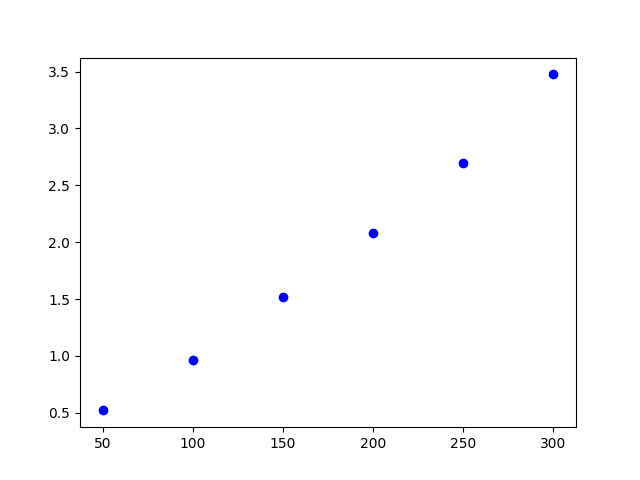
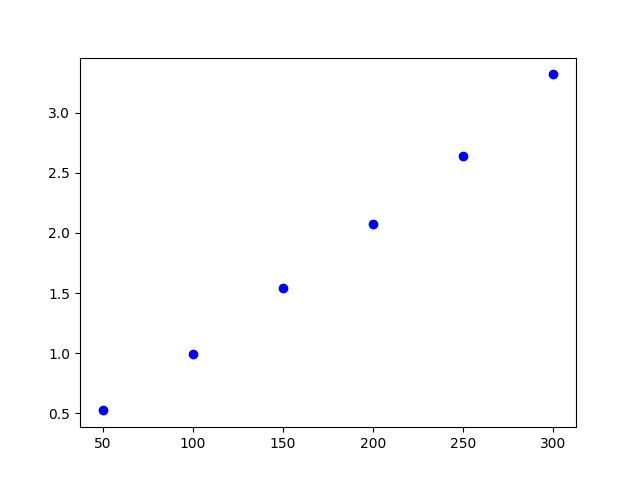
auto benchmark

diff --git a/2. Algorytmy Sortowania/benchmark.py b/2. Algorytmy Sortowania/benchmark.py
@@ -2,6 +2,8 @@ from typing import Callable, Dict
 from timeit import timeit
 from matplotlib import pyplot as plt
 
+import algorithms as alg
+
 default_benchmark_filename = "reference/lorem_ipsum.txt"
 
 
@@ -28,3 +30,17 @@ def plot_benchmark(benchmark: Dict[int, float], filename: str):
     plt.plot(list(benchmark.keys()), list(benchmark.values()), "bo")
     plt.savefig(filename)
     plt.close()
+
+
+if __name__ == "__main__":
+    plot_dir = "plots/"
+    number = 10
+    to_benchmark = {
+        "quicksort.png": alg.quicksort,
+        "mergesort.png": alg.mergesort,
+        "bubblesort.png": alg.bubblesort,
+        "countsort.png": alg.countsort}
+
+    for filename, func in to_benchmark.items():
+        b = benchmark_sort(func, number=number)
+        plot_benchmark(b, plot_dir + filename)
